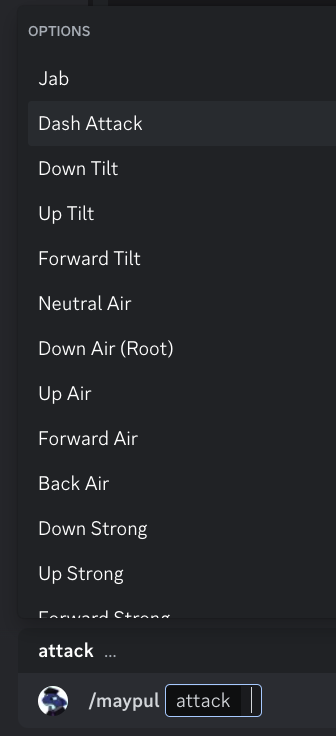
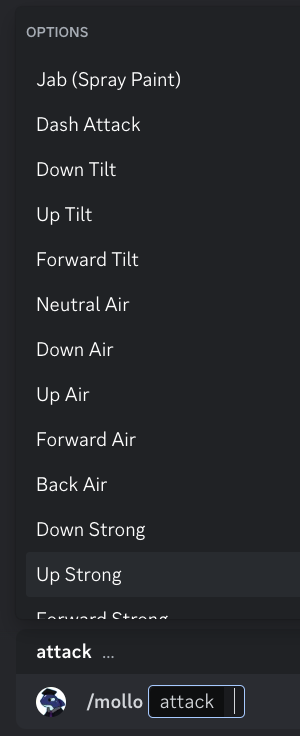
switch to hitbox command example with ui butons

diff --git a/index.html b/index.html
@@ -134,7 +134,7 @@
       <h4 id="game-info-commands">• Game Info Commands</h4>
       <div class="images">
         <img src="/img/mentorbot-game-chatbox.png">
-        <img src="/img/mentorbot-game-maypul.png">
+        <img src="/img/mentorbot-game-hitbox.png">
         <img src="/img/mentorbot-game-formulas.png">
       </div>
       <p>
